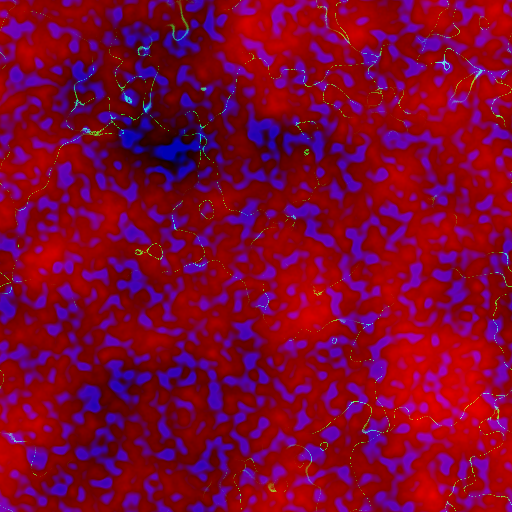
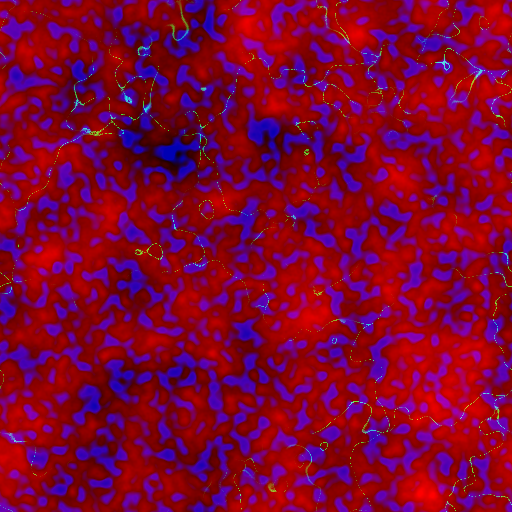
Godot: calmer surface materials
Broad swells in the materials kept low and the accent (moss, salt
crystals, weed) turned down, so the rock reads as stone with touches
of growth rather than camouflage blotches, most visibly in the
Saltworks.

Claude-Session: https://claude.ai/code/session_01SP1MJFMxSzEKkqN2wXa31e

diff --git a/tools/paint_materials.py b/tools/paint_materials.py
@@ -95,7 +95,8 @@ def save(name, grain, accent, cav, h, strength):
 # ---- the surfaces ---------------------------------------------------------------------------------------------
 # Each surface is mostly mid-scale form (chips, swells, strata) with only a little fine grain on top: stone seen
 # from a few metres away, not sandpaper.
-def grain_of(rng, broad=0.8, mid=0.55, fine=0.05):
+def grain_of(rng, broad=0.3, mid=0.55, fine=0.05):
+    # broad swells are kept low: at a room's scale they read as camouflage blotches, not stone
     return (spectral(rng, 3.0, 0.002, 0.03) * broad + spectral(rng, 2.6, 0.01, 0.1) * mid
             + blur(spectral(rng, 1.8, 0.08, 0.35), 0.6) * fine)
 
@@ -136,7 +137,7 @@ def rock(rng):
     strata = np.sin((yy + w * 26) * (2 * math.pi * 7 / N)) * 0.5 + np.sin((yy + w * 34) * (2 * math.pi * 19 / N)) * 0.2
     cracks = cracks_of(rng, 14, 2.0, 0.5, 16)
     chips = sstep(0.6, 1.6, spectral(rng, 2.2, 0.01, 0.1))
-    h = grain_of(rng, 0.9, 0.7, 0.1) + strata * 0.8 - cracks * 1.8 - chips * 0.6
+    h = grain_of(rng, 0.3, 0.7, 0.1) + strata * 0.8 - cracks * 1.8 - chips * 0.6
     moss = patches(rng, 1.0, 1.8) * (1 - cracks)
     save('rock', norm(h), moss * 0.65, cavity_of(h, 4) * 0.8 + cracks * 0.6, blur(h, 1.2), 0.2)
 
@@ -145,7 +146,7 @@ def brick(rng):
     pocks = pits_of(rng, density=0.004, radius=1.4)
     craters = pits_of(rng, density=0.0006, radius=3.5)
     salt = patches(rng, 0.8, 1.7)
-    h = grain_of(rng, 0.6, 0.7, 0.15) - pocks * 1.3 - craters * 0.8 + salt * 0.9
+    h = grain_of(rng, 0.25, 0.7, 0.15) - pocks * 1.3 - craters * 0.8 + salt * 0.9
     save('brick', norm(h), salt * 0.9, cavity_of(h) * 0.8 + pocks * 0.5, blur(h, 1.0), 0.24)
 
 def saltrock(rng):
@@ -154,7 +155,7 @@ def saltrock(rng):
     facet = (rng.random(110)[idx] - 0.5) * 1.0 - (f1 / max(1, f1.max())) * 0.6
     crystals = sstep(1.1, 1.8, spectral(rng, 2.6, 0.003, 0.06))
     edges = sstep(1.4, 0.2, f2 - f1)
-    base = grain_of(rng, 0.9, 0.6, 0.1)
+    base = grain_of(rng, 0.3, 0.6, 0.1)
     h = base * (1 - crystals) + (facet * 1.4 + 1.0) * crystals - edges * crystals * 0.6
     save('saltrock', norm(h), crystals * 0.85, cavity_of(h) * 0.8 + edges * crystals * 0.3, blur(h, 0.8), 0.22)
 
@@ -163,7 +164,7 @@ def bone(rng):
     fib = spectral(rng, 2.4, 0.004, 0.2, stretch=(0.15, 1.0))
     fib = warp(fib, spectral(rng, 3.0, 0.001, 0.03), spectral(rng, 3.0, 0.001, 0.03), 22)
     pores = pits_of(rng, density=0.003, radius=1.3)
-    h = fib * 0.55 + spectral(rng, 3.0, 0.001, 0.03) * 0.8 - pores * 1.6
+    h = fib * 0.55 + spectral(rng, 3.0, 0.001, 0.03) * 0.3 - pores * 1.6
     stain = patches(rng, 0.9, 1.8)
     save('bone', norm(h), stain * 0.45, cavity_of(h) * 0.8 + pores * 0.5, blur(h, 1.0), 0.2)
 
@@ -172,7 +173,7 @@ def flesh(rng):
     folds = spectral(rng, 3.2, 0.001, 0.05)
     swell = spectral(rng, 2.6, 0.008, 0.1)
     veins = cracks_of(rng, 22, 1.4, 0.55, 22)
-    h = folds * 1.0 + swell * 0.6 - veins * 0.8 + spectral(rng, 1.8, 0.08, 0.3) * 0.06
+    h = folds * 0.5 + swell * 0.7 - veins * 0.8 + spectral(rng, 1.8, 0.08, 0.3) * 0.06
     save('flesh', norm(h), veins * 0.9, cavity_of(h, 4) * 0.7 + veins * 0.2, blur(h, 1.4), 0.2)
 
 def shore(rng):
@@ -181,7 +182,7 @@ def shore(rng):
     f1, _, _ = cells(rng, 160)
     clus = sstep(0.8, 1.5, spectral(rng, 2.4, 0.003, 0.06))
     ring = np.exp(-((f1 - 3.0) ** 2) / 1.0) * clus
-    h = grain_of(rng, 0.9, 0.6, 0.1) - pits * 1.3 + ring * 1.4
+    h = grain_of(rng, 0.3, 0.6, 0.1) - pits * 1.3 + ring * 1.4
     weed = patches(rng, 0.9, 1.7) * (0.4 + pits)
     save('shore', norm(h), np.clip(weed, 0, 1) * 0.75, cavity_of(h) * 0.8 + pits * 0.4, blur(h, 0.9), 0.24)
 

diff --git a/godot/src/View/Art.cs b/godot/src/View/Art.cs
@@ -31,13 +31,13 @@ public static class Art
     public record Surface(string Name, float Scale, float Grain, float Bump, float Accent, float Cavity);
     public static readonly Dictionary<string, Surface> SURFACES = new()
     {
-        ["ashlar"] = new("ashlar", 200, 0.42f, 0.9f, 0.3f, 0.4f),
-        ["rock"] = new("rock", 240, 0.5f, 1.0f, 0.35f, 0.5f),
-        ["brick"] = new("brick", 170, 0.42f, 0.9f, 0.28f, 0.4f),
-        ["saltrock"] = new("saltrock", 220, 0.36f, 0.8f, 0.4f, 0.35f),
-        ["bone"] = new("bone", 220, 0.45f, 0.9f, 0.25f, 0.4f),
+        ["ashlar"] = new("ashlar", 200, 0.42f, 0.9f, 0.18f, 0.4f),
+        ["rock"] = new("rock", 240, 0.5f, 1.0f, 0.16f, 0.5f),
+        ["brick"] = new("brick", 170, 0.42f, 0.9f, 0.14f, 0.4f),
+        ["saltrock"] = new("saltrock", 220, 0.36f, 0.8f, 0.1f, 0.35f),
+        ["bone"] = new("bone", 220, 0.45f, 0.9f, 0.15f, 0.4f),
         ["flesh"] = new("flesh", 260, 0.45f, 1.1f, 0.6f, 0.4f),
-        ["shore"] = new("shore", 220, 0.5f, 1.0f, 0.4f, 0.45f),
+        ["shore"] = new("shore", 220, 0.5f, 1.0f, 0.22f, 0.45f),
     };
     // which surfaces a room is made of: its back wall, and the rock Maren walks on
     public static (Surface wall, Surface rock) SurfacesFor(RoomDef r) => Strata.Style(r) switch
